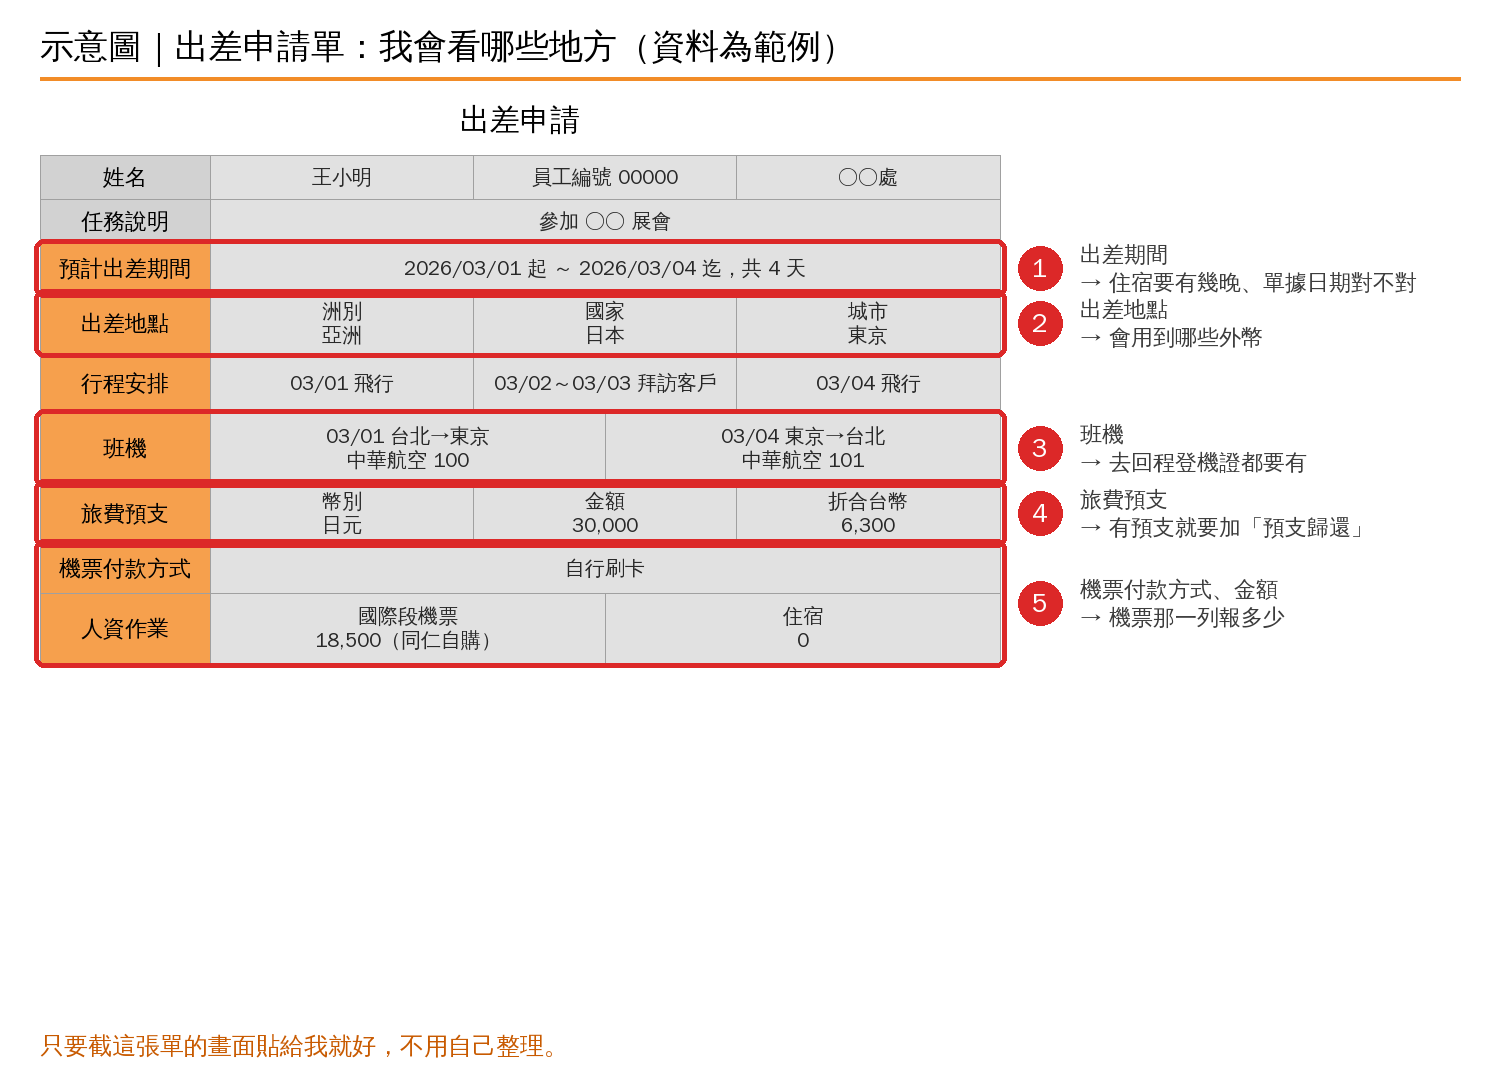
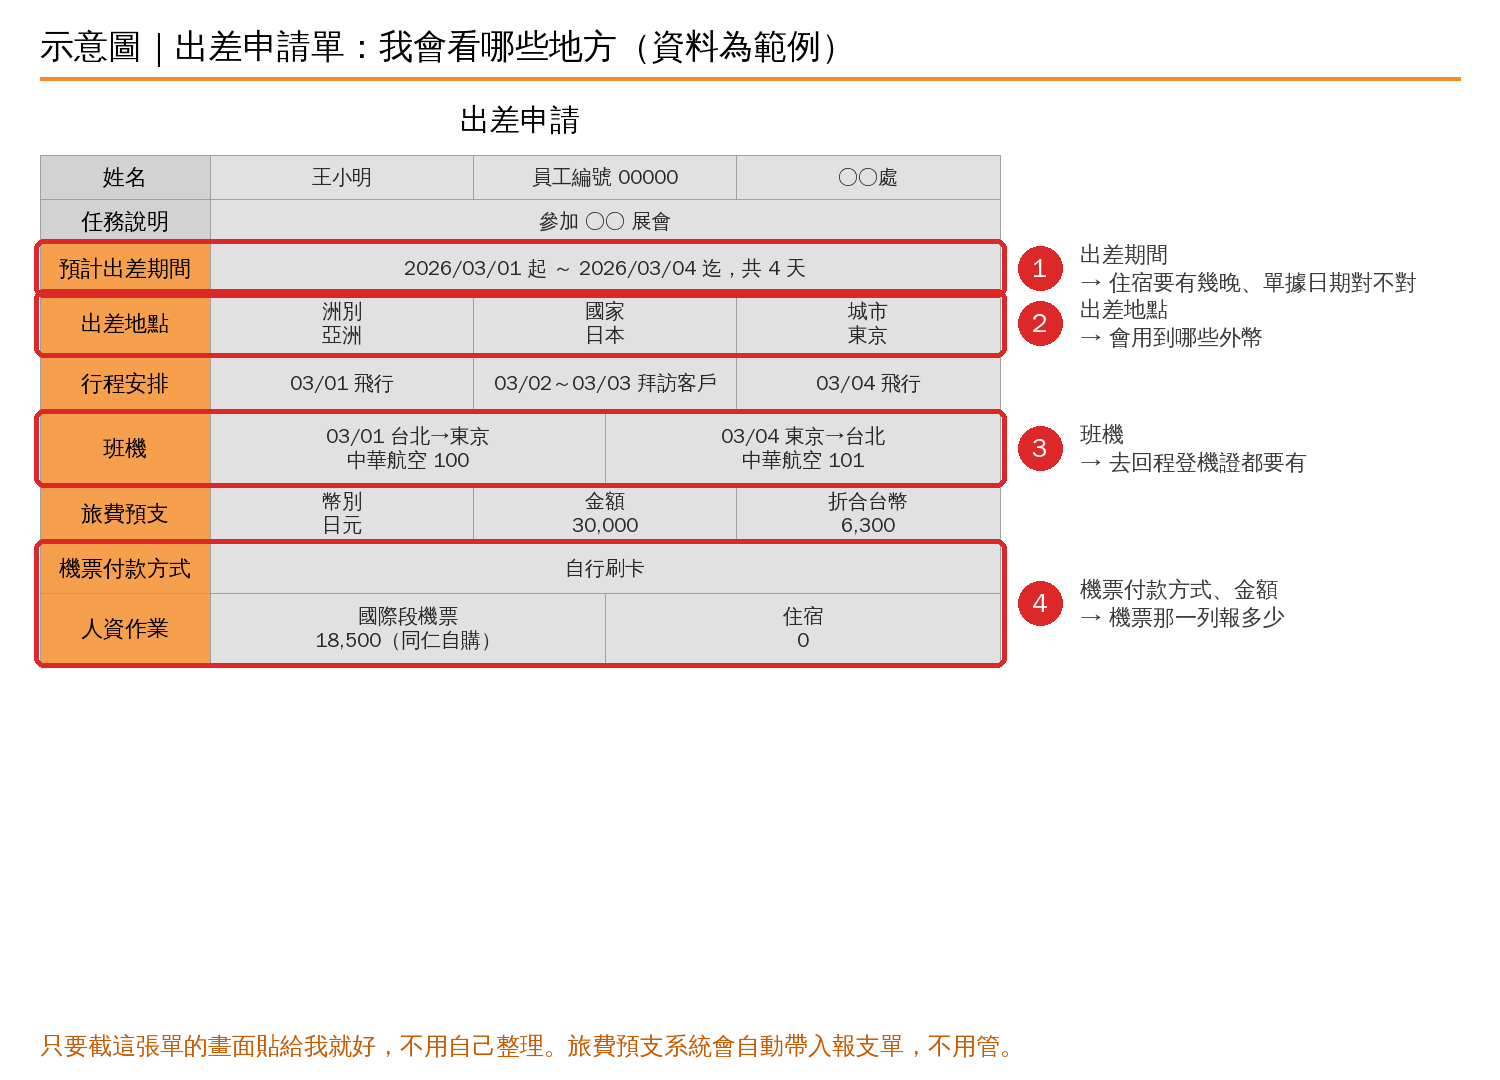
BizTrip_expense: advance return row is added by the system
Stop telling users to add the 預支歸還 row and drop it from the example
manifest and the travel request diagram.

Claude-Session: https://claude.ai/code/session_01W6nKRXawHFaZJUXdwehsJm

diff --git a/.claude/skills/BizTrip_expense/references/system-fields.md b/.claude/skills/BizTrip_expense/references/system-fields.md
@@ -23,7 +23,7 @@
 | 行程安排 | 哪幾天飛行、哪幾天工作 |
 | 台北接送機 | 公司安排、公司直接結帳，不用報也不用問 |
 | 班機／交通方式 | 去回程班次、艙等、時間 → 對登機證 |
-| 旅費預支（需求日期／幣別／金額／匯率／折合台幣） | 有預支 → 報支表加「預支歸還」一列 |
+| 旅費預支（需求日期／幣別／金額／匯率／折合台幣） | 系統會自動在報支單帶入「預支歸還」，不用自己加；只用來在最後提醒歸還現金 |
 | 機票付款方式 | 「自行刷卡」→ 報支項目用「機票(自行刷卡)」 |
 | 人資作業：國際段機票／內陸段機票／改票費／簽證費／護照費／住宿 | 機票金額以這裡為準（例：同仁自購的金額） |
 
@@ -105,5 +105,5 @@ app 主檔裡**沒有**費用歸屬的選項清單：它是自由輸入的文字
 - **零用金**：系統依出差天數自動帶入，不用填、不用附憑證。
 - **費用**：報支表各列折合台幣的合計。
 - **預支**：出差單上的旅費預支折合台幣。
-- **預支歸還**：一列，幣別選預支的幣別，金額填要歸還的現金（沒有要還就 0）；現金交財務，不收銅板。
+- **預支歸還**：系統自動帶入一列（幣別＝預支的幣別），不用自己加；有要歸還的現金交財務，不收銅板。
 - 畫面上還會顯示實際出差天數和補休天數，報支不用處理。

diff --git a/.claude/skills/BizTrip_expense/references/rules.md b/.claude/skills/BizTrip_expense/references/rules.md
@@ -22,7 +22,7 @@
 - 同項目、不同幣別，分列。例：餐飲 歐元 一列、餐飲 台幣 一列。
 - 換成台幣的（信用卡明細換的、幣別不在選單被迫轉的）都併進該項目的台幣列。例：訂房網站房費 13,319 + 飯店現場 EUR 58.40 換成的 2,149 + 手續費 32 = 一列住宿 15,500；波蘭住宿轉台幣也併進同一列住宿 台幣。
 - 被迫轉台幣的那部分，在 Remark 註明「沒有波蘭幣，轉台幣，PLN 391.52（3,344＋手續費 50）」：原幣金額照收據，括號裡的台幣和手續費照刷卡明細抄，不經任何匯率計算。
-- 預支歸還固定一列：幣別＝預支的幣別，金額＝要歸還的現金（沒有就 0），憑證 0。
+- 預支歸還那一列由系統自動帶入，不用自己加，Excel 也不列。
 - 列的順序不用照下拉選單排。
 - 帳單對不上收據（金額或商家不同）時，視為另一筆消費，不可硬配。
 
